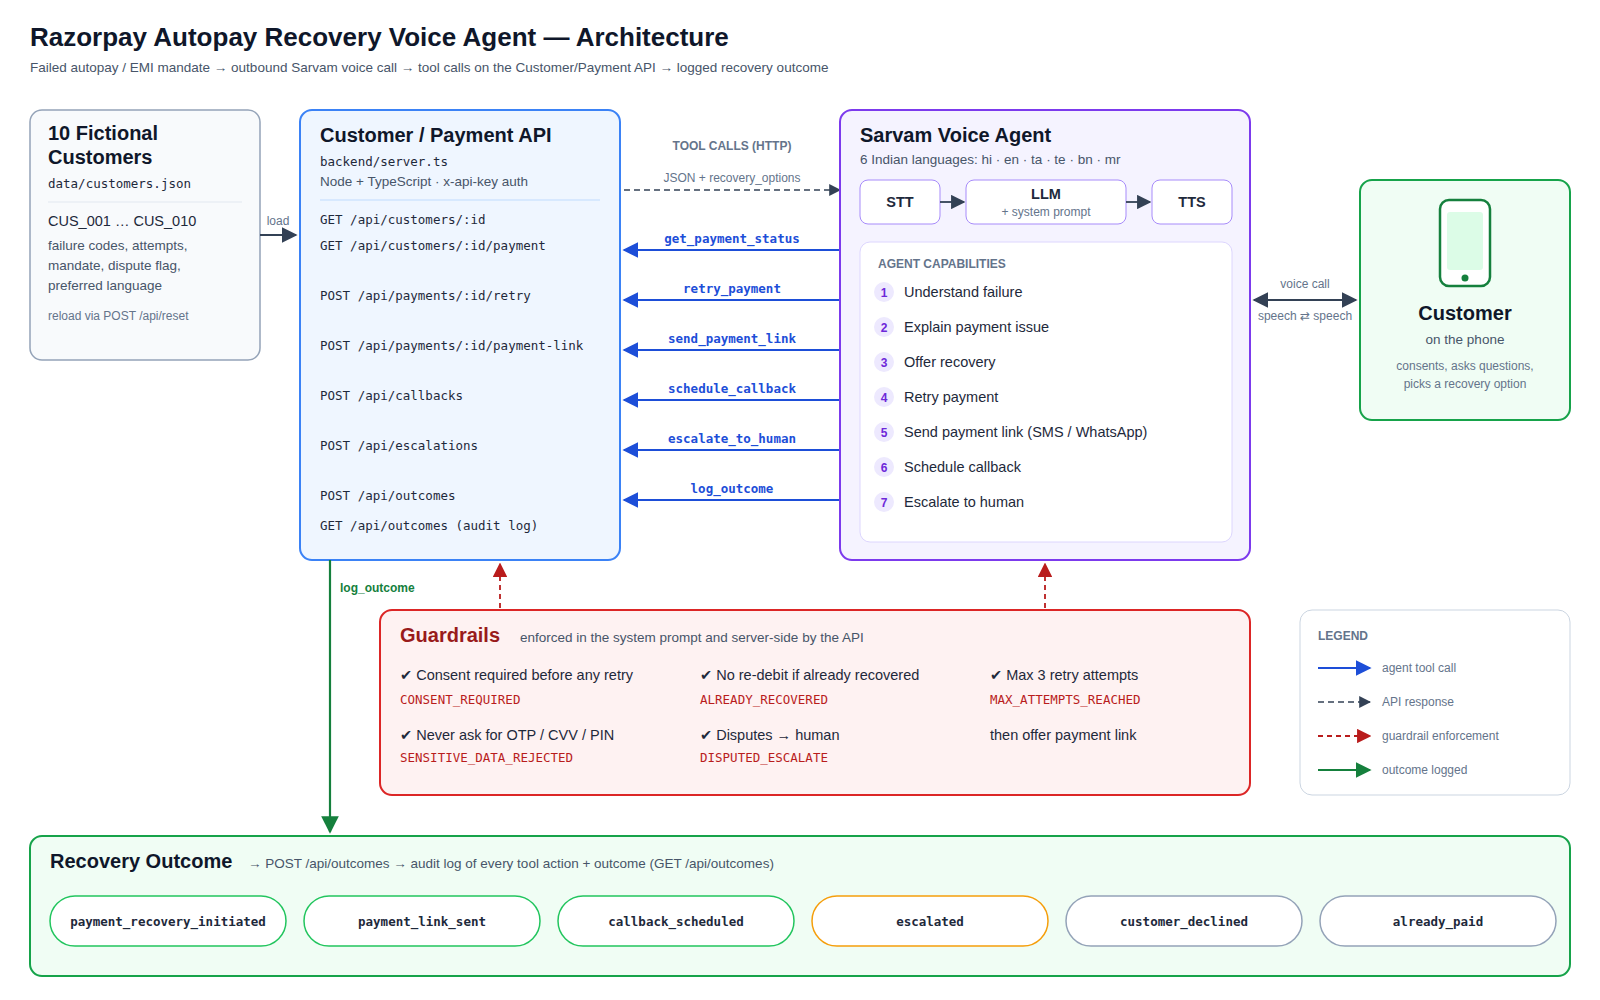
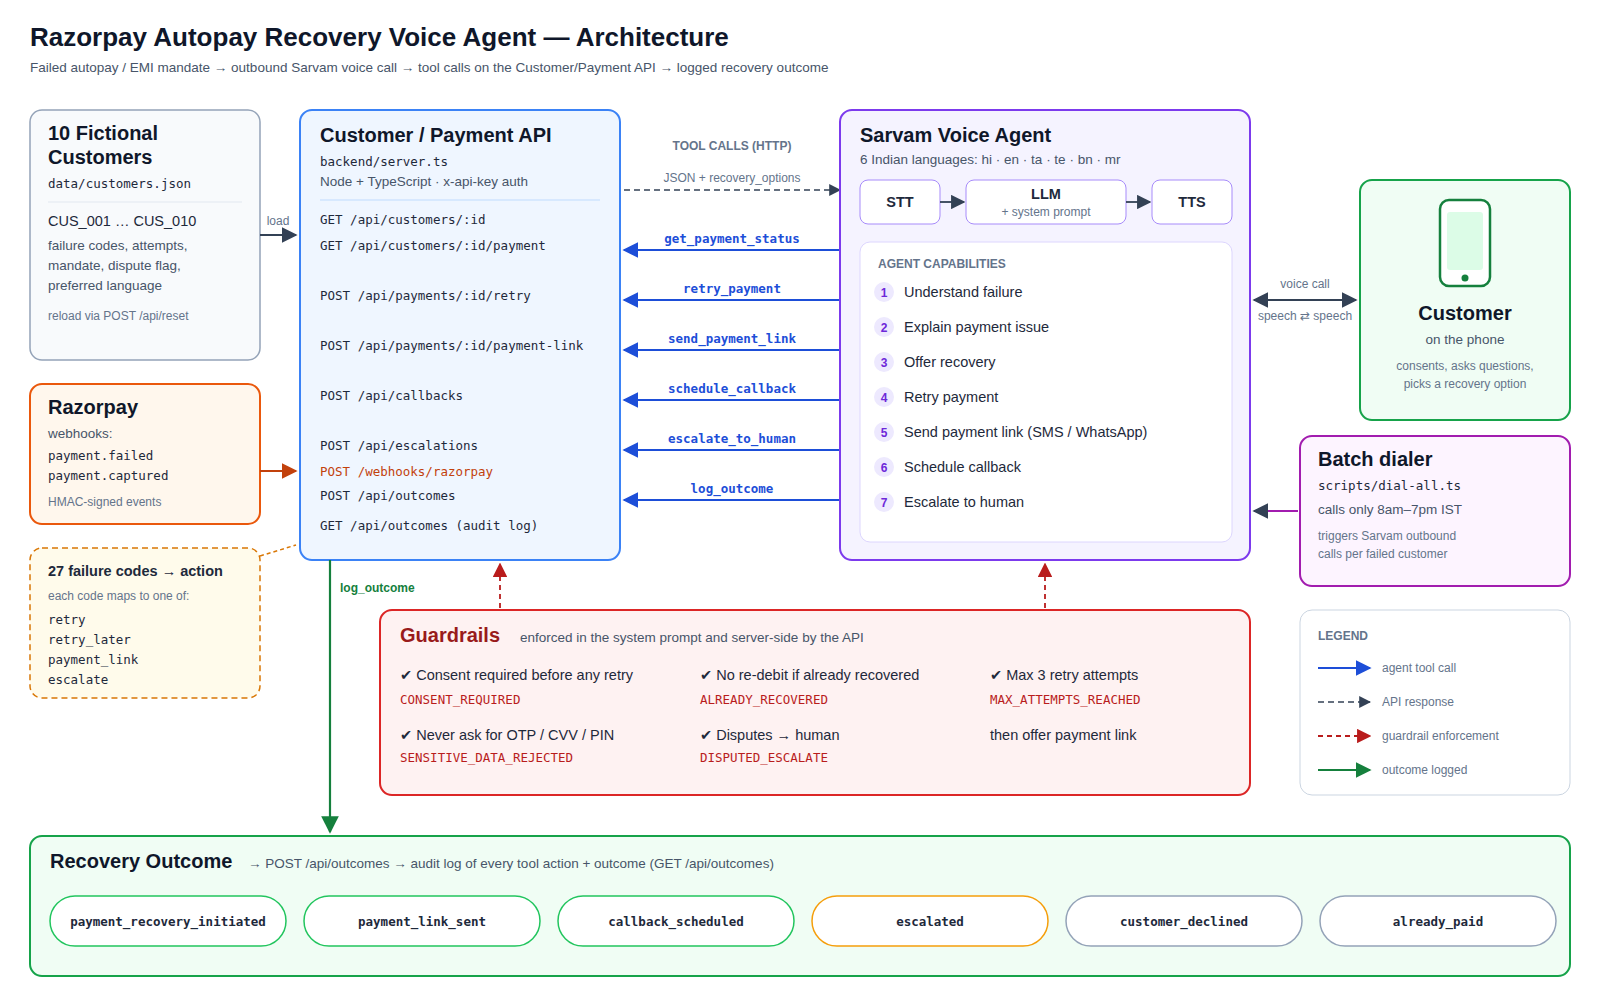
Add Dockerfile, docker-compose, GitHub Actions CI and update architecture diagram
Claude-Session: https://claude.ai/code/session_01TNeMrmzueZUnP7WvqYeyME

diff --git a/docs/architecture.html b/docs/architecture.html
@@ -27,6 +27,9 @@
     <marker id="arR" viewBox="0 0 10 10" refX="9" refY="5" markerWidth="8" markerHeight="8" orient="auto-start-reverse">
       <path d="M0,0 L10,5 L0,10 z" fill="#b91c1c"/>
     </marker>
+    <marker id="arO" viewBox="0 0 10 10" refX="9" refY="5" markerWidth="8" markerHeight="8" orient="auto-start-reverse">
+      <path d="M0,0 L10,5 L0,10 z" fill="#c2410c"/>
+    </marker>
     <marker id="arG" viewBox="0 0 10 10" refX="9" refY="5" markerWidth="8" markerHeight="8" orient="auto-start-reverse">
       <path d="M0,0 L10,5 L0,10 z" fill="#15803d"/>
     </marker>
@@ -132,6 +135,35 @@
   <text x="1465" y="344" class="sub" text-anchor="middle">on the phone</text>
   <text x="1465" y="370" class="small" text-anchor="middle">consents, asks questions,</text>
   <text x="1465" y="388" class="small" text-anchor="middle">picks a recovery option</text>
+
+  <!-- ===== Razorpay webhooks ===== -->
+  <rect x="30" y="384" width="230" height="140" rx="12" fill="#fff7ed" stroke="#ea580c" stroke-width="2"/>
+  <text x="48" y="414" class="h">Razorpay</text>
+  <text x="48" y="438" class="sub">webhooks:</text>
+  <text x="48" y="460" class="m">payment.failed</text>
+  <text x="48" y="480" class="m">payment.captured</text>
+  <text x="48" y="506" class="small">HMAC-signed events</text>
+  <line x1="260" y1="471" x2="296" y2="471" stroke="#c2410c" stroke-width="2" marker-end="url(#arO)"/>
+  <text x="320" y="476" class="m" style="fill:#c2410c">POST /webhooks/razorpay</text>
+
+  <!-- ===== Failure-code mapping note ===== -->
+  <rect x="30" y="548" width="230" height="150" rx="12" fill="#fffbeb" stroke="#d97706" stroke-width="1.5" stroke-dasharray="6 4"/>
+  <text x="48" y="576" class="b" font-weight="700">27 failure codes → action</text>
+  <text x="48" y="600" class="small">each code maps to one of:</text>
+  <text x="48" y="624" class="m">retry</text>
+  <text x="48" y="644" class="m">retry_later</text>
+  <text x="48" y="664" class="m">payment_link</text>
+  <text x="48" y="684" class="m">escalate</text>
+  <line x1="260" y1="556" x2="296" y2="545" stroke="#d97706" stroke-width="1.5" stroke-dasharray="4 3"/>
+
+  <!-- ===== Batch dialer ===== -->
+  <rect x="1300" y="436" width="270" height="150" rx="12" fill="#fdf4ff" stroke="#a21caf" stroke-width="2"/>
+  <text x="1318" y="466" class="h">Batch dialer</text>
+  <text x="1318" y="490" class="m">scripts/dial-all.ts</text>
+  <text x="1318" y="514" class="sub">calls only 8am–7pm IST</text>
+  <text x="1318" y="540" class="small">triggers Sarvam outbound</text>
+  <text x="1318" y="558" class="small">calls per failed customer</text>
+  <line x1="1298" y1="511" x2="1254" y2="511" stroke="#a21caf" stroke-width="2" marker-end="url(#ar)"/>
 
   <!-- ===== Guardrails ===== -->
   <rect x="380" y="610" width="870" height="185" rx="12" fill="#fef2f2" stroke="#dc2626" stroke-width="2"/>
